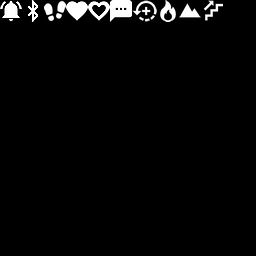
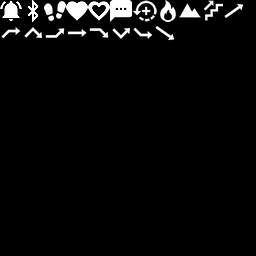
Pressure indicator (#25)
* Initial version for amoled watches with lots of debug code

* 20 and 35 pixel icons (to test with fr955 and fr965)

* Generalized the device capability checks and removed redundant tests when the indicator values are determined

* Added the pressure indicator for modern watches

* Added pressure icons for the remaining font sizes

* Fixed a typo and added commented code to compute the pressure values in a different way

* Removed the commented code just added

* Doc update

Changed region(s): [[0.0, 0.0938, 0.5938, 0.1562], [0.875, 0.0, 0.9688, 0.0938], [0.5938, 0.0938, 0.6875, 0.1562]]

diff --git a/docs/README.md b/docs/README.md
@@ -6,7 +6,7 @@
 
 - This analog watchface is an implementation of the iconic [Swiss railway clock] design for Garmin smartwatches, with an always-on second hand on watches with a MIP display;
 - The operation differs from the original Swiss railway clock in that the second hand ticks like that of a quartz watch, rather than sweeps, and it does not pause at 12 o'clock;
-- On-device settings (a settings menu on the watch itself) allow the configuration of a battery level indicator (a classic battery shaped one or a modern one), date display, dark mode, 3D effects, a [Move Bar] and various other options. The "Configurable Clutter" clip above shows some of them and section [Settings](#settings) has the complete list;
+- On-device settings (a settings menu on the watch itself) allow the configuration of a battery level indicator (a classic battery shaped one or a modern one), date display, dark mode, 3D effects, a "Move Bar" and various other options. The "Configurable Clutter" clip above shows some of them and section [Settings](#settings) has the complete list;
 - On watches with an AMOLED display, the background is always black and there are two independent brightness settings, replacing the contrast and dark mode options of MIP watches. Always-on (low-power) mode uses the darkest dimmer level and has no second hand[^1];
 - On some of the newest watches, it is possible to detect touch screen presses (touch and hold). This is used for a little gimmick to change the hour and minute hands and draw just their outlines for a few seconds after a screen press, so any indicator that is covered by the hands becomes readable (supported on the Forerunner 255, 955, fēnix 7 and 8 series, Enduro 2 and 3 and all AMOLED watches).
 
@@ -27,15 +27,15 @@ This table details the available on-device settings and their options. The setti
 | Alarms | **On**<br/>Off | Shows an alarm symbol when an alarm is set on the device. | Legacy<br/>Modern<br/>Amoled |
 | Notifications | On<br/>**Off** | Shows a notification symbol when there are active notifications. | Legacy<br/>Modern<br/>Amoled |
 | Phone&nbsp;Connection | **On**<br/>Off | Shows a Bluetooth symbol on the 6 o'clock tickmark when the phone connection is established. | Legacy<br/>Modern<br/>Amoled |
-| 1st&nbsp;Complication | Heart&nbsp;Rate<br/>Recovery&nbsp;Time**<br/>Calories<br/>Steps<br/>Floors&nbsp;Climbed**<br/>Altitude<br/>**Off** | Shows the selected indicator:<br/>- Heart rate in beats per minute (bpm);<br/>- Time to recovery from the last activity, in hours**;<br/>- Calories burned so far for the current day in kilocalories (kCal);<br/>- Step count since midnight for the current day in number of steps;<br/>- The number of floors climbed for the current day;<br/>- The altitude above mean sea level in meters (m) or feet (ft). | Modern<br/>Amoled |
-| 2nd&nbsp;Complication | Heart&nbsp;Rate<br/>Recovery&nbsp;Time**<br/>Calories<br/>Steps<br/>Floors&nbsp;Climbed**<br/>Altitude<br/>**Off** | Shows the selected indicator. | Modern<br/>Amoled |
-| 3rd&nbsp;Complication | Heart&nbsp;Rate<br/>Recovery&nbsp;Time**<br/>Floors&nbsp;Climbed**<br/>**Off** | Shows the selected indicator. | Modern<br/>Amoled |
-| 4th&nbsp;Complication | Heart&nbsp;Rate<br/>Recovery&nbsp;Time**<br/>Floors&nbsp;Climbed**<br/>**Off** | Shows the selected indicator. | Modern<br/>Amoled |
+| 1st&nbsp;Complication | Heart&nbsp;Rate<br/>Recovery&nbsp;Time**<br/>Calories<br/>Steps<br/>Floors&nbsp;Climbed**<br/>Altitude<br/>Pressure**<br/>**Off** | Shows the selected indicator:<br/>- Heart rate in beats per minute (bpm);<br/>- Time to recovery from the last activity, in hours**;<br/>- Calories burned so far for the current day in kilocalories (kCal);<br/>- Step count since midnight for the current day in number of steps;<br/>- The number of floors climbed for the current day;<br/>- The altitude above mean sea level in meters (m) or feet (ft);<br/>- The atmospheric pressure value in millibar (mbar) and an arrow showing the recent pressure trend. | Modern<br/>Amoled |
+| 2nd&nbsp;Complication | Heart&nbsp;Rate<br/>Recovery&nbsp;Time**<br/>Calories<br/>Steps<br/>Floors&nbsp;Climbed**<br/>Altitude<br/>Pressure**<br/>**Off** | Shows the selected indicator. | Modern<br/>Amoled |
+| 3rd&nbsp;Complication | Heart&nbsp;Rate<br/>Recovery&nbsp;Time**<br/>Floors&nbsp;Climbed**<br/>Pressure**<br/>**Off** | Shows the selected indicator. | Modern<br/>Amoled |
+| 4th&nbsp;Complication | Heart&nbsp;Rate<br/>Recovery&nbsp;Time**<br/>Floors&nbsp;Climbed**<br/>Pressure**<br/>**Off** | Shows the selected indicator. | Modern<br/>Amoled |
 | Heart&nbsp;Rate | On<br/>**Off** | Shows the heart rate in beats per minute (bpm). | Legacy |
 | Recovery&nbsp;Time** | On<br/>**Off** | Shows the time to recovery from the last activity, in hours. | Legacy |
 | Steps | On<br/>**Off** | Shows the step count since midnight for the current day in number of steps. | Legacy |
 | Calories | On<br/>**Off** | Shows the calories burned so far for the current day in kilocalories (kCal). | Legacy |
-| Move&nbsp;Bar | On<br/>**Off** | Enables the Move Bar. | Modern<br/>Amoled |
+| Move&nbsp;Bar | On<br/>**Off** | Enables the Move Bar. The move bar reminds you to keep moving. After one hour of inactivity, the move bar appears. Additional segments appear after every 15 minutes of inactivity. You can reset the move bar by walking a short distance.| Modern<br/>Amoled |
 | Brightness | **White**<br/>Silver<br/>Gray<br/>Slate<br/>Dark | Adjusts the brightness of the foreground color. | Amoled |
 | Dimmer | **Scheduled**<br/>In&nbsp;DnD&nbsp;Mode<br/>Off | Allows for a second configuration of the foreground color. _Scheduled_ enables Dimmer mode from the Turn On to the Turn Off time. _In DnD Mode_ couples Dimmer mode with the do not disturb mode of the device. | Amoled |
 | Dark Mode | **Scheduled**<br/>In&nbsp;DnD&nbsp;Mode<br/>On<br/>Off | Changes the watchface colors to a black background with light foreground. _Scheduled_ enables Dark Mode from the Turn On to the Turn Off time. _In DnD Mode_ couples Dark Mode with the do not disturb mode of the device. | Legacy<br/>Modern |
@@ -260,7 +260,6 @@ OUT OF OR IN CONNECTION WITH THE SOFTWARE OR THE USE OR OTHER DEALINGS IN THE SO
 [CC 3.0 BY]: https://creativecommons.org/licenses/by/3.0/
 [Flaticon license]: https://www.freepikcompany.com/legal?&_ga=2.78543444.1954543656.1683086561-616594141.1683086561&_gl=1*4sgkt0*test_ga*NjE2NTk0MTQxLjE2ODMwODY1NjE.*test_ga_523JXC6VL7*MTY4MzEyNDUwMi4yLjEuMTY4MzEyNDg0OS41NC4wLjA.*fp_ga*NjE2NTk0MTQxLjE2ODMwODY1NjE.*fp_ga_1ZY8468CQB*MTY4MzEyNDUzMi4yLjEuMTY4MzEyNDg0OS41NC4wLjA.#nav-flaticon
 [Prettier Monkey C]: https://marketplace.visualstudio.com/items?itemName=markw65.prettier-extension-monkeyc
-[Move Bar]: https://support.garmin.com/en-US/?faq=JwIMwaMTTV0t7r0mvkdA08
 [compatible devices]: https://developer.garmin.com/connect-iq/compatible-devices/
 [on-device menu]: https://developer.garmin.com/connect-iq/api-docs/Toybox/WatchUi/Menu2.html
 [picker]: https://developer.garmin.com/connect-iq/api-docs/Toybox/WatchUi/Picker.html
